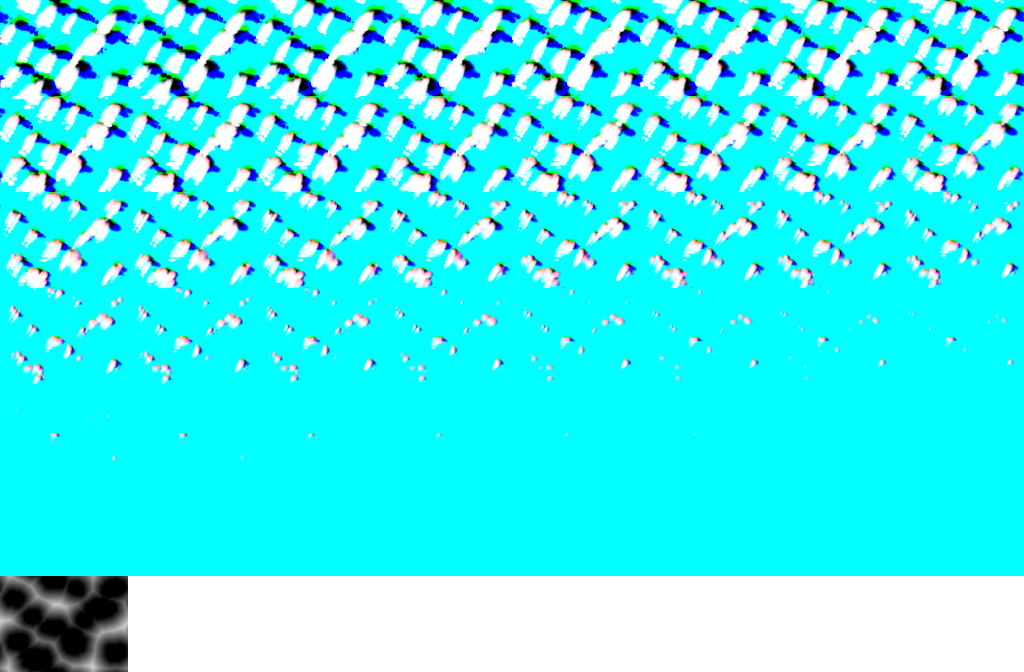
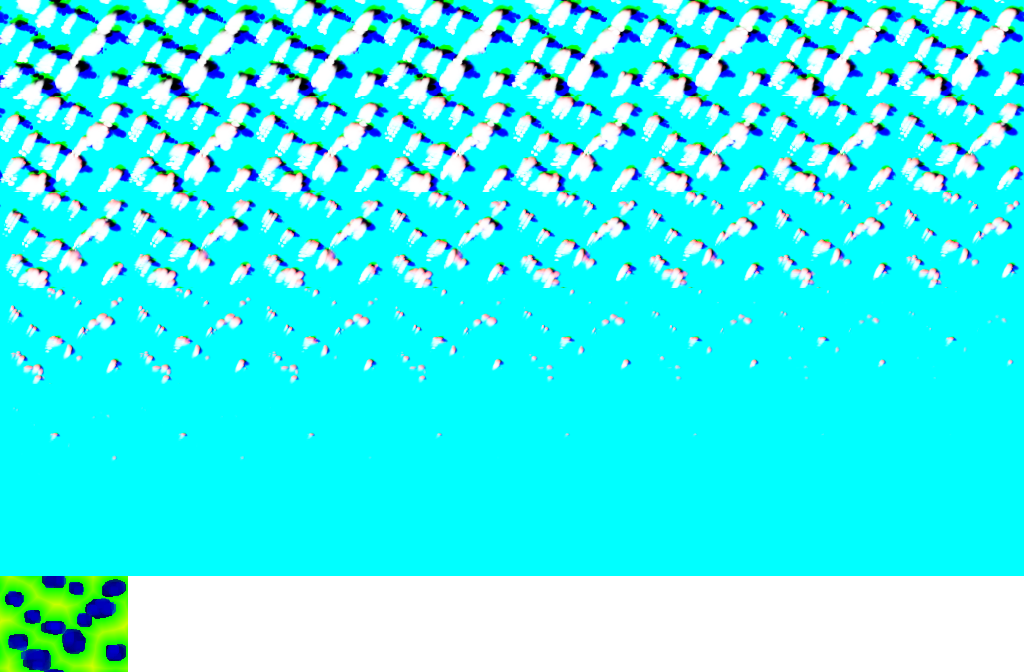
Use baked cloud height bounds to limit grazing-ray work [skip ci]

Changed region(s): [[0.0, 0.8438, 0.125, 1.0]]

diff --git a/tools/bake_battle_clouds.py b/tools/bake_battle_clouds.py
@@ -3,7 +3,7 @@ from pathlib import Path
 
 import numpy as np
 from PIL import Image
-from scipy.ndimage import distance_transform_edt, gaussian_filter, map_coordinates
+from scipy.ndimage import distance_transform_edt, gaussian_filter, map_coordinates, maximum_filter
 
 ASSET = Path(__file__).resolve().parents[1] / "assets/environment/battle-clouds.png"
 WIDTH, DEPTH, SLICES = 128, 96, 48
@@ -84,9 +84,16 @@ image.paste(Image.fromarray(atlas, "RGBA"))
 
 # Conservative horizontal free distance for ray skipping. Periodic padding
 # keeps jumps consistent across tiled weather cells and floating origins.
-empty = np.tile(density.max(axis=0) < .004, (3, 3))
+occupied = density > .004
+empty = np.tile(~occupied.any(axis=0), (3, 3))
 spacing = (PERIOD_Z / DEPTH, PERIOD_X / WIDTH)
 distance = distance_transform_edt(empty, sampling=spacing)[DEPTH:2 * DEPTH, WIDTH:2 * WIDTH]
 distance = np.clip((distance - 1.65 * np.hypot(*spacing)) / 4.0, 0.0, 1.0)
-image.paste(Image.fromarray(np.uint8(np.floor(distance * 255))).convert("RGBA"), (0, atlas.shape[0]))
+# Expand the height envelope horizontally and vertically so an empty-height
+# jump cannot cross a nearby bank, even after trilinear density filtering.
+envelope = maximum_filter(occupied, size=(5, 5, 5), mode=("nearest", "wrap", "wrap"))
+base = np.min(np.where(envelope, y, 1.0), axis=0)
+top = np.max(np.where(envelope, y, 0.0), axis=0)
+bounds = np.stack((np.floor(distance * 255), np.floor(base * 255), np.ceil(top * 255)), axis=-1)
+image.paste(Image.fromarray(np.uint8(bounds)).convert("RGBA"), (0, atlas.shape[0]))
 image.save(ASSET, optimize=True)
